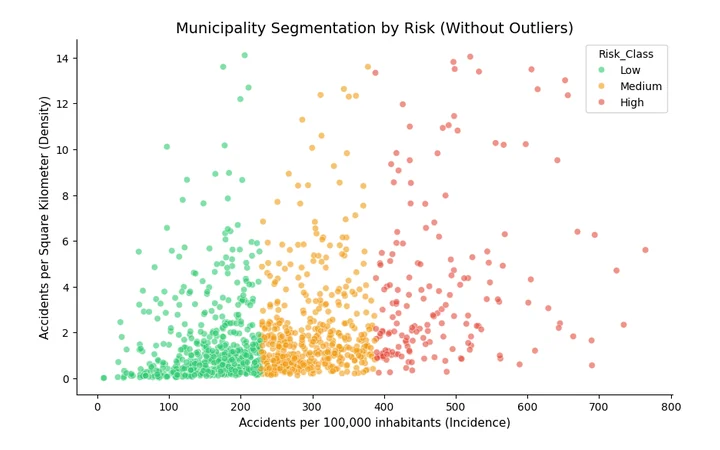
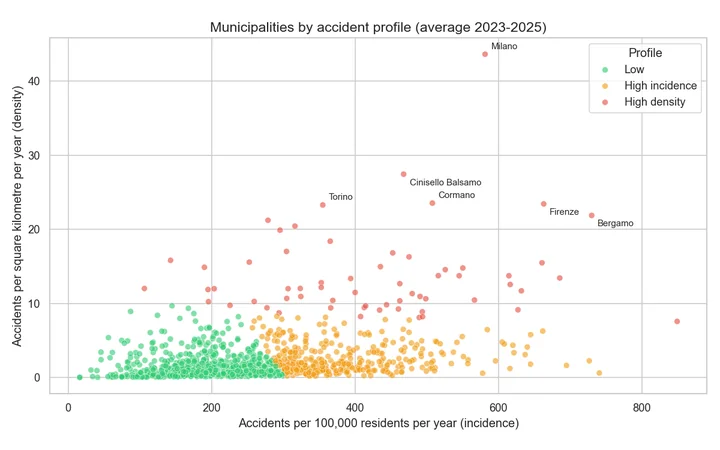
fix: bring the road accidents card up to date with the revised project
The capstone was revised on 2025 ISTAT data: 1,202 municipalities in three profiles, with a priority score. New preview image from the updated chart, new alt text.

diff --git a/src/data/projects.ts b/src/data/projects.ts
@@ -29,13 +29,13 @@ export const projects: Project[] = [
   {
     repo: 'capston_project_final',
     title: 'Incidenti stradali in Italia',
-    summary: 'Dati ISTAT del 2024, indicatori per abitante e per km², K-Means: 1.187 comuni in tre classi di rischio.',
+    summary: 'Dati ISTAT del 2025, indicatori per abitante e per km², K-Means: 1.202 comuni in tre profili, con un punteggio di priorità.',
     stack: ['Python', 'pandas', 'K-Means', 'Power BI'],
     when: 'agosto 2026',
     tone: 'night',
     preview: {
       src: incidenti,
-      alt: 'Grafico a dispersione dei comuni divisi in tre classi di rischio: basso, medio e alto',
+      alt: 'Grafico a dispersione dei comuni divisi in tre profili: bassa incidentalità, alta incidenza e alta densità',
     },
   },
   {

diff --git a/src/assets/previews/README.md b/src/assets/previews/README.md
@@ -11,7 +11,7 @@ Le anteprime delle schede dei progetti: un'immagine vera per ogni progetto, mai 
 | `memory.webp` | Gioco del Memory | la demo online, https://francesco-mauro.github.io/Memory-Game/, durante una partita, ritagliata attorno al tavolo |
 | `portfolio.webp` | Portfolio animato | la demo online di questo sito, la prima schermata |
 
-Tutte del 10 novembre 2026.
+Tutte del 10 novembre 2026, tranne `incidenti.webp`: rifatta il 12 novembre 2026 dal grafico nuovo, dopo la revisione del progetto.
 
 ## I video
 
@@ -37,9 +37,9 @@ Per il Memory prima di `scale` c'è `crop=1088:680:96:0`, lo stesso taglio dell'
 
 ## Come sono fatte
 
-- Cinque sono scatti di pagina presi con Chrome a 1280×800, tema chiaro, poi ridotti a **720×450** (16:10) e salvati in **WebP**; quelli del login e del Memory sono stati prima ritagliati a 1088×680, sempre 16:10, per avvicinare il soggetto. La sesta, `incidenti.webp`, non è uno scatto: è il grafico originale (853×549), rimpicciolito senza deformarlo e centrato su un fondo bianco di 720×450.
+- Cinque sono scatti di pagina presi con Chrome a 1280×800, tema chiaro, poi ridotti a **720×450** (16:10) e salvati in **WebP**; quelli del login e del Memory sono stati prima ritagliati a 1088×680, sempre 16:10, per avvicinare il soggetto. La sesta, `incidenti.webp`, non è uno scatto: è il grafico originale (1200×720), rimpicciolito senza deformarlo e centrato su un fondo bianco di 720×450.
 - Nella scheda l'immagine è larga circa 310 px sul computer: 720 è più del doppio, quindi resta nitida sugli schermi densi.
-- In tutto pesano circa 135 KB, e il browser le scarica solo quando la sezione Progetti si avvicina (`loading="lazy"`).
+- In tutto pesano circa 128 KB, e il browser le scarica solo quando la sezione Progetti si avvicina (`loading="lazy"`).
 - Due progetti non hanno una pagina online: per fotografarli sono stati avviati sul PC dal loro repository.
 
 ## Per rifarne una
